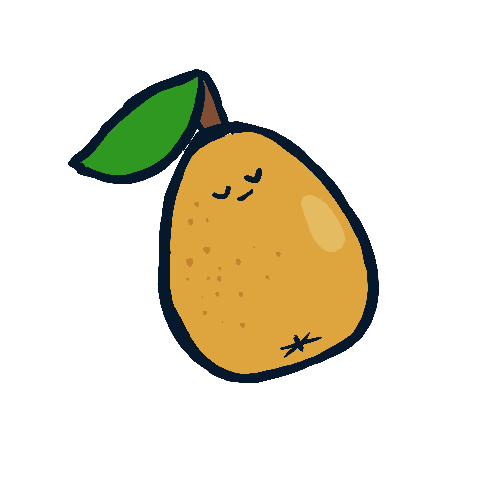
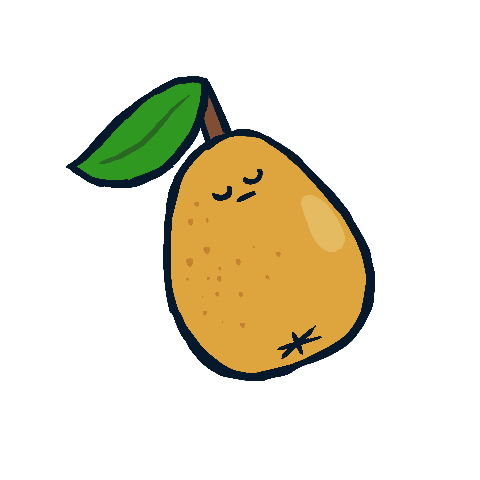
fix

Changed region(s): [[0.125, 0.125, 0.8125, 0.8125], [0.4688, 0.3438, 0.5625, 0.4375], [0.3125, 0.25, 0.3438, 0.2812]]

diff --git a/Assets/Scripts/BBQ/Action/Play/Freeze.cs b/Assets/Scripts/BBQ/Action/Play/Freeze.cs
@@ -35,8 +35,10 @@ namespace BBQ.Action.Play {
             
             SoundMgr.SoundPlayer.I.Play("se_freeze");
             await tasks;
-            await TriggerObserver.I.Invoke(ActionTrigger.Freeze, deckFoods, true);
-            await TriggerObserver.I.Invoke(ActionTrigger.FreezeOthers, deckFoods, false);
+            if (!env.isShopping || !env.shop.GetShopFoods().Select(x => x.deckFood).Contains(deckFoods[0])) {
+                await TriggerObserver.I.Invoke(ActionTrigger.Freeze, deckFoods, true);
+                await TriggerObserver.I.Invoke(ActionTrigger.FreezeOthers, deckFoods, false);    
+            }
 
             ActionVariable v2 = v.Copy("f1", "");
             v2.f1 = dropped;

diff --git a/Assets/Scripts/BBQ/Cooking/Board.cs b/Assets/Scripts/BBQ/Cooking/Board.cs
@@ -70,7 +70,7 @@ namespace BBQ.Cooking {
             }
         }
 
-        private void CreateHand() {
+        private async void CreateHand() {
             if (_nextGold) {
                 SoundPlayer.I.Play("se_goldenHand");                
             }
@@ -88,6 +88,8 @@ namespace BBQ.Cooking {
             _hand = hand;
             _hand.transform.SetParent(transform.Find("HandContainer"), true);
             _hand.transform.localPosition = handInitialPos;
+            await UniTask.Delay(TimeSpan.FromSeconds(0.1f));
+            _hand.GetComponent<CanvasGroup>().alpha = 1f;
         }
 
         public void UseHand() {
